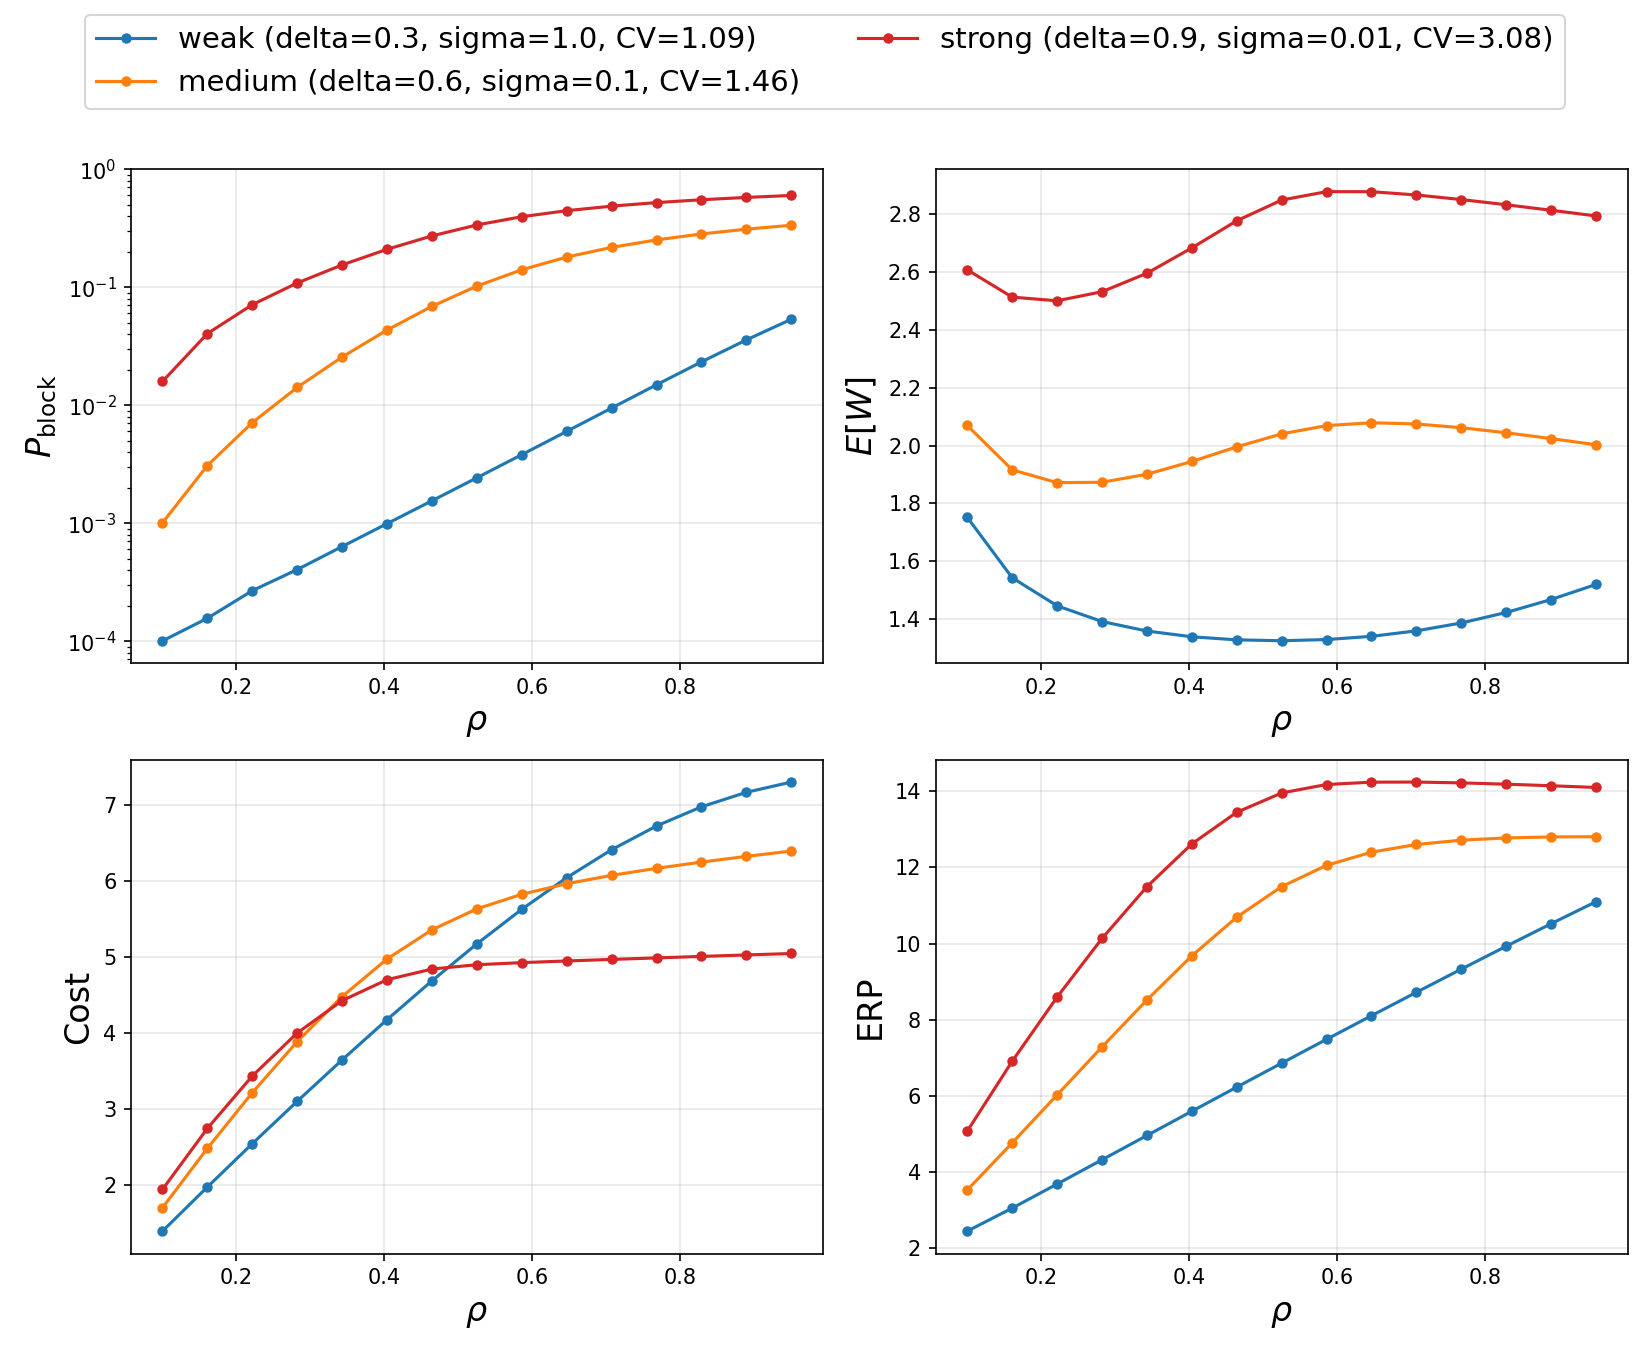
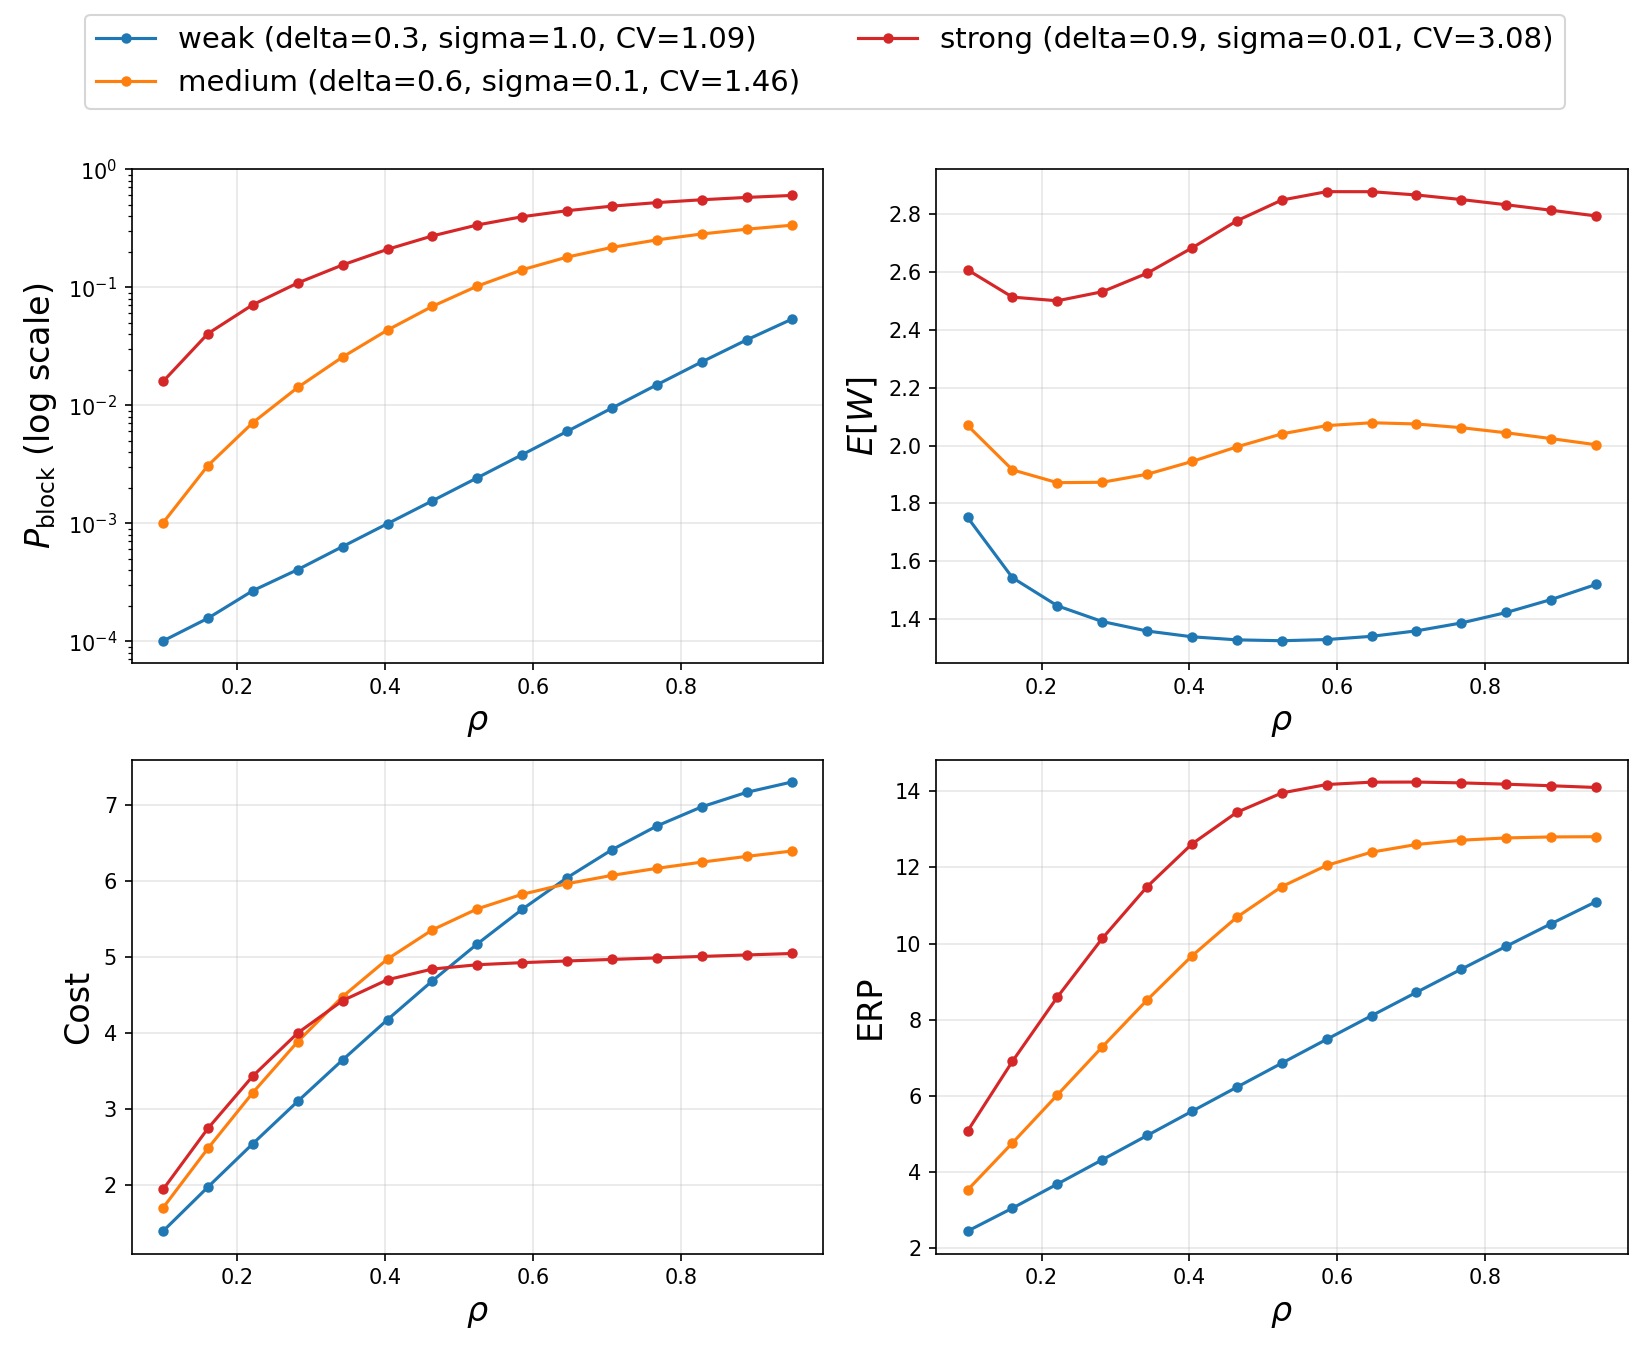
ラベル変更

diff --git a/scripts/experiment_1_traffic.py b/scripts/experiment_1_traffic.py
@@ -331,6 +331,7 @@ def _plot(
             ax.set_yscale("log")
             # ブロッキング確率なので上端は 1. 対数軸の自動余白で 1 を超えないようにする
             ax.set_ylim(top=1)
+            ylabel = r"$P_{\mathrm{block}}$ (log scale)"
 
         ax.set_xlabel(r"$\rho$", fontsize=16)
         ax.set_ylabel(ylabel, fontsize=16)
